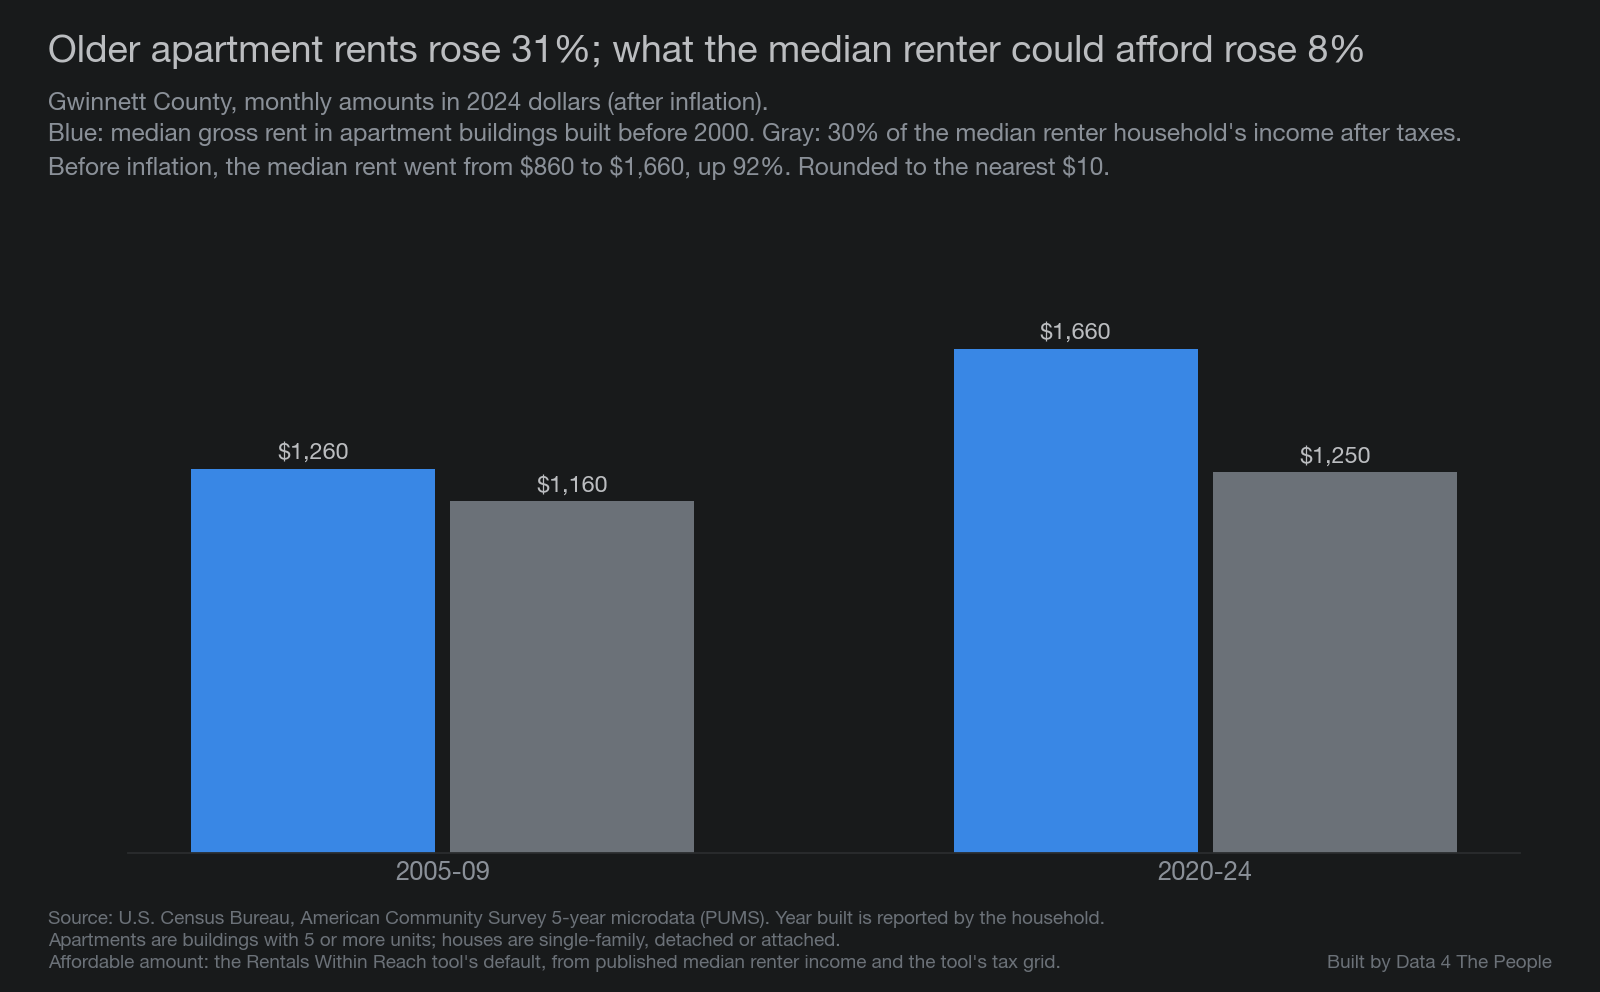
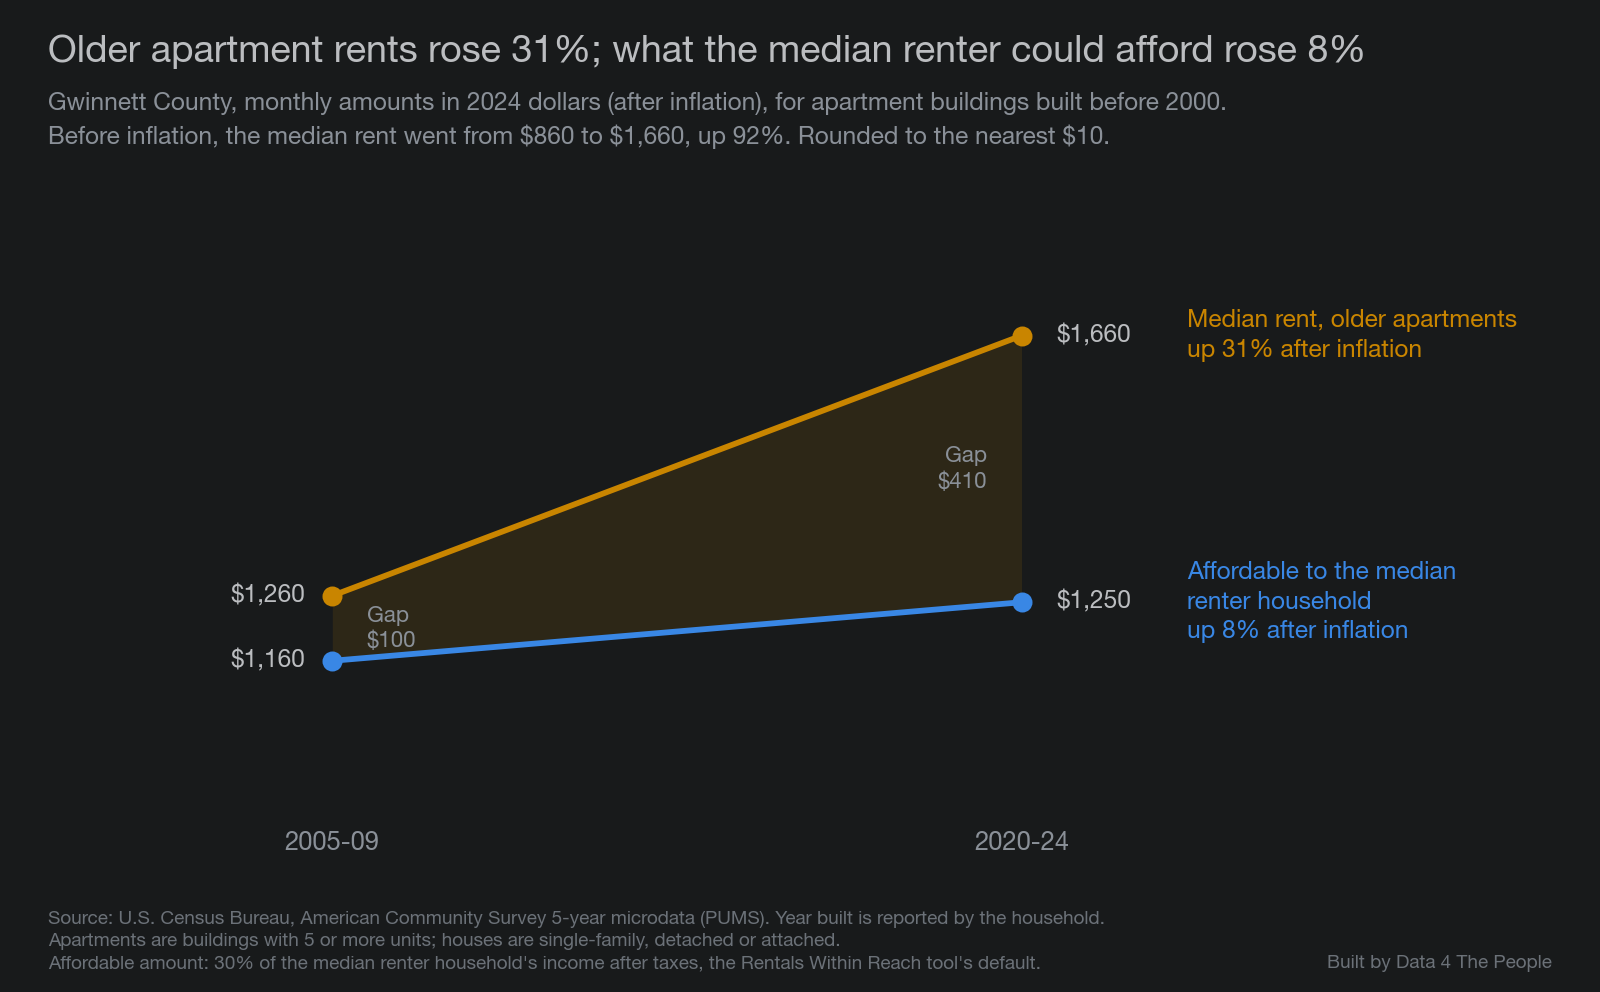
gwinnett-county-rents: step 2b done

diff --git a/scripts/09_charts.py b/scripts/09_charts.py
@@ -473,26 +473,34 @@ def older_apartment_rents():
     k = CPI["2024"] / CPI["2009"]
     rent = {v: N7.wmedian(group_rows(v, "5+ unit apartments", "before 2000")) for v in ("2009", "2024")}
     line = {v: ceiling(v) for v in ("2009", "2024")}
-    real = {"2009": (rent["2009"] * k, line["2009"] * k), "2024": (rent["2024"], line["2024"])}
-    fig, ax = frame(left=0.08, top=0.74)
+    r = [round(rent["2009"] * k, -1), round(rent["2024"], -1)]
+    a = [round(line["2009"] * k, -1), round(line["2024"], -1)]
+    fig, ax = frame(left=0.10, right=0.66, top=0.76, bottom=0.17)
     xs = [0, 1]
-    wdt = 0.34
-    for i, (lab, col) in enumerate((("Median rent, apartments built before 2000", BLUE), ("Affordable to the median renter household", MUTED))):
-        vals = [real[v][i] for v in ("2009", "2024")]
-        ax.bar([x + (i - 0.5) * wdt for x in xs], vals, width=wdt - 0.02, color=col)
-        for x, v in zip(xs, vals):
-            ax.text(x + (i - 0.5) * wdt, v + 20, f"${round(v, -1):,.0f}", ha="center", va="bottom", color=INK, fontsize=10.5)
+    ax.fill_between(xs, a, r, color=YELLOW, alpha=0.12, lw=0)
+    for vals, col in ((r, YELLOW), (a, BLUE)):
+        ax.plot(xs, vals, color=col, lw=2.6, marker="o", ms=8, zorder=3)
+        ax.text(-0.04, vals[0], f"${vals[0]:,.0f}", ha="right", va="center", color=INK, fontsize=11)
+    ch_rent, ch_line = pct(rent["2009"] * k, rent["2024"]), pct(line["2009"] * k, line["2024"])
+    for vals, col, name, ch in ((r, YELLOW, "Median rent, older apartments", ch_rent),
+                                (a, BLUE, "Affordable to the median\nrenter household", ch_line)):
+        ax.text(1.05, vals[1], f"${vals[1]:,.0f}", ha="left", va="center", color=INK, fontsize=11)
+        ax.text(1.24, vals[1], f"{name}\nup {ch:.0f}% after inflation", ha="left", va="center", color=col, fontsize=11,
+                fontweight="bold", linespacing=1.35)
+    for x, (rv, av) in zip(xs, zip(r, a)):
+        ax.text(x + (0.05 if x == 0 else -0.05), (rv + av) / 2, f"Gap\n${rv - av:,.0f}", ha="left" if x == 0 else "right",
+                va="center", color=INK_DIM, fontsize=10, linespacing=1.3)
     ax.set_xticks(xs, ["2005-09", "2020-24"], fontsize=11.5)
-    ax.set_ylim(0, max(max(r) for r in real.values()) * 1.18)
+    ax.set_xlim(-0.25, 1.05)
+    ax.set_ylim(min(a) - 250, max(r) + 150)
     ax.set_yticks([])
-    ax.spines["left"].set_visible(False)
-    ch_rent, ch_line = pct(real["2009"][0], real["2024"][0]), pct(real["2009"][1], real["2024"][1])
+    for side in ("left", "bottom"):
+        ax.spines[side].set_visible(False)
     titleblock(fig, f"Older apartment rents rose {ch_rent:.0f}%; what the median renter could afford rose {ch_line:.0f}%",
-               "Gwinnett County, monthly amounts in 2024 dollars (after inflation).\n"
-               "Blue: median gross rent in apartment buildings built before 2000. Gray: 30% of the median renter household's income after taxes.\n"
+               "Gwinnett County, monthly amounts in 2024 dollars (after inflation), for apartment buildings built before 2000.\n"
                f"Before inflation, the median rent went from ${round(rent['2009'], -1):,.0f} to ${round(rent['2024'], -1):,.0f},"
                f" up {pct(rent['2009'], rent['2024']):.0f}%. Rounded to the nearest $10.")
-    credit(fig, PUMS + "\nAffordable amount: the Rentals Within Reach tool's default, from published median renter income and the tool's tax grid.")
+    credit(fig, PUMS + "\nAffordable amount: 30% of the median renter household's income after taxes, the Rentals Within Reach tool's default.")
     save(fig, "15-older-apartment-rents.png")
 
 

diff --git a/scripts/13_tieout.py b/scripts/13_tieout.py
@@ -106,6 +106,11 @@ def main():
     check("C4", "Gwinnett rank, rent minus income", 1, [o[6] for o in gap].index(G) + 1, 0)
     print("   INFO  next three: " + ", ".join(f"{o[5]} {o[3] - o[0]:+.1f}" for o in gap[1:4]) + f"; Gwinnett {gap[0][3] - gap[0][0]:+.1f}")
     check("C5", "next three are Clayton, DeKalb, Cherokee", 1, float({o[5] for o in gap[1:4]} == {"Clayton", "DeKalb", "Cherokee"}), 0)
+    near = min((o for o in big if o[6] != G), key=lambda o: abs(o[0] - next(x for x in big if x[6] == G)[0]))
+    check("C11", "county with renter income change closest to Gwinnett's is Newton (1 = yes)", 1, float(near[5] == "Newton"), 0)
+    check("C12", "Newton renter income change (%)", 9, near[0], 0.5)
+    check("C13", "Newton median rent change (%)", 14, near[3], 0.5)
+    check("C14", "Newton income margin (points), 'about 13'", 13, near[1], 0.5)
     us_ratio = 100 * G8.pull("2024", "us:1")["us"]["rent"] / G8.pull("2024", "us:1")["us"]["own"]
     check("C6", "renter median as % of owner median (%)", 55, 100 * D["2024"][G]["rent"] / D["2024"][G]["own"], 0.5)
     print(f"   INFO  US figure {us_ratio:.1f}% ('about the national figure')")
@@ -157,6 +162,8 @@ def main():
     big = max(add, key=add.get)
     check("F6", "houses built 2010+ added, 'about 6,700'", 6700, add[("houses", "2010 or later")], 50)
     check("F5", "largest single group is older houses (1 = yes)", 1, float(big == ("houses", "before 2000")), 0)
+    three = sum(add[g] for g in (("houses", "before 2000"), ("apartments", "2010 or later"), ("houses", "2010 or later")))
+    check("F7", "three kinds' share of added rentals (%), 'about 70%'", 70, 100 * three / sum(add.values()), 1.5)
     print("Post charts 05 and 06 (rents against what renters could afford)")
     two = add[("houses", "before 2000")] + add[("apartments", "2010 or later")]
     check("G1", "older houses + new apartments share of added (%), 'more than half'", 54, 100 * two / sum(add.values()), 1)
@@ -213,6 +220,9 @@ def main():
     ft = lambda ws: 100 * sum(x["w"] for x in ws if x["ftyr"]) / sum(x["w"] for x in ws)  # noqa: E731
     check("E10", "full-time year-round share of workers 2005-09 (%)", 66, ft(w0), 0.5)
     check("E11", "full-time year-round share of workers 2020-24 (%)", 76, ft(w1), 0.5)
+    ba = lambda h: 100 * sum(x["w"] for x in h if x["edu"] == 3) / sum(x["w"] for x in h)  # noqa: E731
+    check("E15", "householders with a bachelor's or more 2005-09 (%)", 23, ba(h0), 0.5)
+    check("E16", "householders with a bachelor's or more 2020-24 (%)", 30, ba(h1), 0.5)
     check("E12", "same-kind-of-household income change (%)", -3, pct(P12.wmed(h0, "inc", P12.weights(h0)), P12.reweighted(h1, h0)), 0.5)
     q = P12.qcew()
     check("E13", "QCEW pay change Gwinnett (%)", 1, q[G], 0.5)

diff --git a/posts/gwinnett-county-rents/POST.md b/posts/gwinnett-county-rents/POST.md
@@ -32,7 +32,7 @@ Nationally, Gwinnett's 10.5% was the lowest of the 1,922 counties we ranked, lea
 ![Bar chart of the 10 counties with the lowest share of rentals within reach in 2020-2024, leaving out college counties. Gwinnett County, Georgia, is lowest at 10.5%, followed by Clayton County, Georgia, at 11.0%, Lincoln County, New Mexico, at 11.8% and DeKalb County, Georgia, at 14.0%. The rest range from 14.2% to 15.4%.](images/02-least-affordable.png)
 *Source: Data 4 The People, Rentals Within Reach, from Census Bureau American Community Survey 5-year estimates, 2020-2024.*
 
-Two caveats. Clayton County is only half a point behind. And with college counties included, Gwinnett ranks third, behind Whitman County, Washington, and Benton County, Oregon.
+With college counties included, Gwinnett ranks third, behind Whitman County, Washington (home of Washington State University), and Benton County, Oregon (home of Oregon State University).
 
 ## A 59% decline
 
@@ -48,38 +48,54 @@ After inflation, Gwinnett's median rent rose 32% from 2005-2009 to 2020-2024, wh
 ![Scatter plot of 15 Atlanta-area counties, with the change in median renter income across and the change in median rent up, 2005-2009 to 2020-2024, after inflation. Gwinnett, at income up 8% and rent up 32%, sits farthest above the line where the two rose at the same rate. Clayton, DeKalb and Cherokee are close behind it.](images/04-income-vs-rent.png)
 *Source: Census Bureau, American Community Survey 5-year estimates; BLS consumer price index. Gwinnett's income change has a margin of about 5 points either way.*
 
-Home prices rose fast in Gwinnett, but they rose about as fast in Cobb County, where renters' income rose 18%.
+For context, look at Newton County. Its median renter household income rose 9%, the closest of these 15 counties to Gwinnett's 8%. Its median rent rose just 14%, paling in comparison to Gwinnett's 32% surge. Newton's income figure has a wide margin, about 13 points either way. 
 
 ## New rentals came in out of reach
 
-Gwinnett added about 41,000 rentals over this period. Two kinds account for more than half of them: about 11,300 more rentals in older houses, built before 2000, and about 11,000 apartments built since 2010. Houses built since 2010 added about 6,700 more. The typical rental in each of the three cost more than the median renter household could afford: about $1,250 a month, 30% of its after-tax income. In 2020-2024, older houses rented for a median of about $1,990 and new apartments for $1,870. About 10% of the older houses and 8% of the new apartments were within reach. Houses built since 2010 rented for a median of about $2,500, and 2% were within reach.
+The problem here is not that rental units in Gwinnett didn't grow. They did. 
+
+Gwinnett added about 41,000 rentals over this period. Three kinds account for about 70% of them:
+
+- About 11,300 more rentals in older houses, built before 2000
+- About 11,000 apartments built since 2010
+- About 6,700 houses built since 2010
+
+The typical rental in each of the three cost more than the median renter household could afford: about $1,250 a month, 30% of its after-tax income. In 2020-2024, older houses rented for a median of about $1,990 and new apartments for $1,870. About 10% of the older houses and 8% of the new apartments were within reach. Houses built since 2010 rented for a median of about $2,500, and 2% were within reach.
 
 ![Bar chart of median monthly rent in Gwinnett County in 2020-2024, against the $1,250 the median renter household could afford. Houses built before 2000 $1,990, with 10% within reach. Apartments built 2010 or later $1,870, with 8% within reach. Houses built 2010 or later $2,500, with 2% within reach.](images/05-new-to-market-rents.png)
 *Source: Census Bureau, American Community Survey 5-year microdata. Rents include utilities.*
 
-That does not account for the drop in rentals within reach. Most of that drop is in older apartments, built before 2000. Gwinnett had about the same number of them in both periods, but their median rent went from about $860 to $1,660, up 92%. After inflation, that is a 31% rise, while the amount the median renter household could afford rose 8%. In 2005-2009, the median older apartment rented for about $100 more than that amount. By 2020-2024, it was about $400 more.
+But it gets worse. Not only were the new units out of reach, but the older units that used to be within reach in 2005-2009 moved out of reach too.
 
-![Bar chart of Gwinnett County amounts in 2024 dollars. In 2005-2009, the median rent for apartments built before 2000 was $1,260, and the median renter household could afford $1,160. In 2020-2024, the median rent was $1,660, and the household could afford $1,250.](images/06-older-apartment-rents.png)
+Over our study period, Gwinnett lost about 5,500 rentals within reach, despite gaining about 41,000 rentals overall. Most of that drop was in older apartments, built before 2000. Gwinnett had about the same number of them in both periods, but their median rent went from about $860 to $1,660, up 92%. After inflation, that is a 31% rise, while the amount the median renter household could afford rose 8%. In 2005-2009, the median older apartment rented for about $100 more than that amount. By 2020-2024, it was about $400 more.
+
+![Slope chart of Gwinnett County amounts in 2024 dollars for apartments built before 2000. The median rent rose from $1,260 in 2005-2009 to $1,660 in 2020-2024, up 31% after inflation. The amount the median renter household could afford rose from $1,160 to $1,250, up 8%. The gap between them grew from $100 to $410.](images/06-older-apartment-rents.png)
 *Source: Census Bureau, American Community Survey 5-year microdata; Data 4 The People, Rentals Within Reach. Amounts in 2024 dollars.*
 
 In other words, most of the rentals added cost more than the median renter household could afford, and the older apartments that used to be close to reach rose far faster than renters' income.
 
 ## Renters' pay did not keep up
 
-Why did renter income not keep up? For the same kind of renter household (the same number of workers, and a householder of the same age and education), income fell about 3% after inflation. Renter households as a whole earned more mostly because the households changed: more members worked, more worked full time, and more householders were older or had college degrees. Pay itself showed no measurable rise. After inflation, the median renter who worked full time all year earned about $46,100 in 2005-2009 and $44,600 in 2020-2024. In Cobb, that pay rose 7%.
+Why did renter income not keep up? To answer that, we looked at pay: what one renter who worked full time all year earned. Household income adds up everyone in the household, so it can rise even when pay does not, if more people in the household work or work more hours. Pay isolates what renters are getting paid.
 
-Few counties with rents rising this fast saw that. We looked at 37 counties in large metro areas where rent rose 25% or more after inflation and the survey can measure the county on its own. Only two showed a drop in full-time renter pay: Gwinnett, and Cherokee County, also in metro Atlanta. Both drops are within the survey's margin of error, Cherokee's by a wide amount. In the middle county of the group, it rose 15%.
+Gwinnett's renter households did change. Households with two or more workers went from 34% to 37% of renter households. Among renters who worked, the share working full time all year rose from 66% to 76%. Householders with a bachelor's degree or more went from 23% to 30%. Changes like these can lift household income even when pay stays flat.
+
+And pay itself showed no measurable rise. After inflation, the median renter who worked full time all year earned about $46,100 in 2005-2009 and $44,600 in 2020-2024. In Cobb, that pay rose 7%.
+
+Few counties with rents rising this fast saw a drop in full-time renter pay. We looked at 37 counties in large metro areas where rent rose 25% or more after inflation and the survey can measure the county on its own. Only two showed a drop in full-time renter pay: Gwinnett, and Cherokee County, also in metro Atlanta. Both drops are within the survey's margin of error, Cherokee's by a wide amount. In the middle county of the group, it rose 15%.
 
 ![Bar chart of the change in median earnings of renters who worked full time all year, 2005-2009 to 2020-2024, after inflation, in 37 counties in large metro areas where median rent rose 25% or more after inflation. San Francisco is highest at 44.5%. The middle county rose about 15%. Cobb rose 6.7%, DeKalb 9.9% and Fulton 21.2%. Only Gwinnett, down 3.3%, and Cherokee, down 6.0%, show a drop. Lines on each bar show the margin of error, widest for Cherokee.](images/07-renter-pay.png)
 *Source: Census Bureau, American Community Survey 5-year microdata; BLS consumer price index. Lines show 90% margins: about 5 points either way for Gwinnett and 11 for Cherokee, so the order near the bottom is not certain. Another 44 counties with rent up 25% or more share a microdata area with a neighbor and could not be measured on their own.*
 
 ## “Hotlanta” - for rents, not renter incomes
 
-We really tried hard to keep this analysis focused on Gwinnett County. With the lowest percent of rentals within reach among the 1,922 U.S. counties we ranked, outside college counties, it deserved the attention. But notice how all throughout this analysis, other neighboring Atlanta-area counties kept making appearances on the charts. The analysis does not support one neat and tidy cause and effect conclusion encompassing the entire Atlanta metro area, but the data does tell us something is going on around this city that is making many areas especially difficult for renters. Rental prices are rising like one would expect in Hotlanta, but the incomes aren’t climbing with it. Among the large Atlanta-area counties, Gwinnett had one of the widest gaps between the change in rental prices and renter incomes. But is Gwinnett unique, or is it just where this perfect storm came together around Atlanta? We don’t know… but would love to hear from residents to help fill in the experiential gaps to which the data is blind.
+We really tried hard to keep this analysis focused on Gwinnett County. With the lowest percent of rentals within reach among the 1,922 U.S. counties we ranked, outside college counties, it deserved the attention. But notice how all throughout this analysis, other neighboring Atlanta-area counties kept making appearances on the charts. The analysis does not support one neat and tidy cause and effect conclusion encompassing the entire Atlanta metro area, but the data does suggest that something is going on around this city that is making many areas especially difficult for renters. Rental prices are rising like one would expect in Hotlanta, but the incomes aren’t climbing with it. Among the large Atlanta-area counties, Gwinnett had one of the widest gaps between the change in rental prices and renter incomes. But is Gwinnett unique, or is it just where this perfect storm came together around Atlanta? We don’t know… but would love to hear from residents to help fill in the experiential gaps to which the data is blind.
 
-Our other takeaway from this analysis was how different it was from Dawson County’s story. Dawson County was all about concentration risk of a small county in one large employer. It was an idiosyncratic story on the surface, but on reflection is just the manifestation of a risk facing many small counties across this country. Gwinnett County, from what we can tell, is simply a math story. It’s a story that is happening in many places to some degree - inflation creates winners and losers. If you owned your home over the past twenty years in Gwinnett County, you are a winner from housing inflation. If you needed to rent, you are a loser from housing inflation. Yes, you lost especially hard in Gwinnett, but this story just illustrates that what matters is the ratio between your income and your expenses. We all know this right? It couldn’t be simpler. And yet, what happened in Gwinnett is happening in other places to varying degrees. In my view, this is very sad. Most of us were renters at one point in our lives. And if we were lucky, we eventually became homeowners. But now we have counties where rental prices are accelerating far faster than incomes. How are renters in Gwinnett supposed to save for a house if the median renter household must spend 43% of its after-tax income on the median rental?
+Our other takeaway was how different this was from Dawson County's story. Dawson County was about a small county relying on one large employer, a risk many small counties share. Gwinnett County, from what we can tell, is a math story: what matters is the ratio between your income and your expenses. Over the past twenty years, rising housing costs worked in favor of people who owned homes in Gwinnett and against people who rented. Renters lost especially hard in Gwinnett, but rents are outpacing renter incomes in other places too. When rents outpace renter incomes year after year, it can work like a gravitational pull, widening the gap between the economic prospects of renters and homeowners in America.
 
-Our job is to provide the tools and analysis to help you understand the data. It’s not policy. But geez this is depressing for those seeking the American Dream (without wealthy parents to finance it for them). Hopefully some smart minds come together to first acknowledge this problem, and then enact solutions to give people some hope for a better match between wages and affordable rentals.
+In my view, this is very sad. For many people, renting is the step before owning a home. How are renters in Gwinnett supposed to save for a house if the median renter household must spend 43% of its after-tax income on the median rental?
+
+Our job is to provide the tools and analysis to help you understand the data. It’s not policy. But geez this is depressing for those seeking the American Dream (without wealthy parents to finance it for them). Hopefully some smart minds come together to first acknowledge this problem, and then enact solutions to give people some hope for days when there can be a better match between wages and affordable rentals.
 
 ::: divider
 

diff --git a/STATUS.md b/STATUS.md
@@ -6,8 +6,8 @@ Process: ~/.claude/d4tp-process/PROCESS.md
 ## Current
 
 Post: gwinnett-county-rents
-Step: 2b
-Since: 2026-10-21
+Step: 2c
+Since: 2026-10-22
 
 ## Steps
 
@@ -15,7 +15,7 @@ Since: 2026-10-21
 |---|---|---|---|
 | 1  | Exploration and analysis | 2026-10-21 | thread and charts in research/thread.md; both tie-outs pass |
 | 2a | Draft with brackets resolved | 2026-10-21 | 7 charts; tie-outs: Claude 86/86, independent 1 and 2 match |
-| 2b | Eric's edit, Claude's look-over | | |
+| 2b | Eric's edit, Claude's look-over | 2026-10-22 | pay section now full-time pay only; tie-out 93/93 |
 | 2c | Slice markup | | |
 | 2d | Hero 1680x1080 + alt text | | |
 | 2e | SEO | | |
@@ -178,3 +178,12 @@ None.
   brackets left in POST.md. Waiting on Eric to confirm 2a.
 - 2026-10-21 Step 2a confirmed by Eric. Next: 2b, Eric edits POST.md, then
   Claude's look-over.
+- 2026-10-22 Step 2b: chart 15 (post image 06) redrawn as a slope chart with
+  the gap shaded; alt text updated. Eric's edits reviewed as a numbered list;
+  accepted edits applied (college names, Newton comparison, three kinds of
+  added rentals as bullets, rentals within reach lost, closing tightened).
+  Like-for-like income dropped from the post; the pay section now goes
+  straight to full-time renter pay, with household changes (2+ workers 34% to
+  37%, full-time share 66% to 76%, bachelor's 23% to 30%). New numbers tied
+  out (C11-C14, F7, E15-E16): 93 of 93 pass.
+- 2026-10-22 Step 2b confirmed by Eric. Next: 2c, slice markup.
